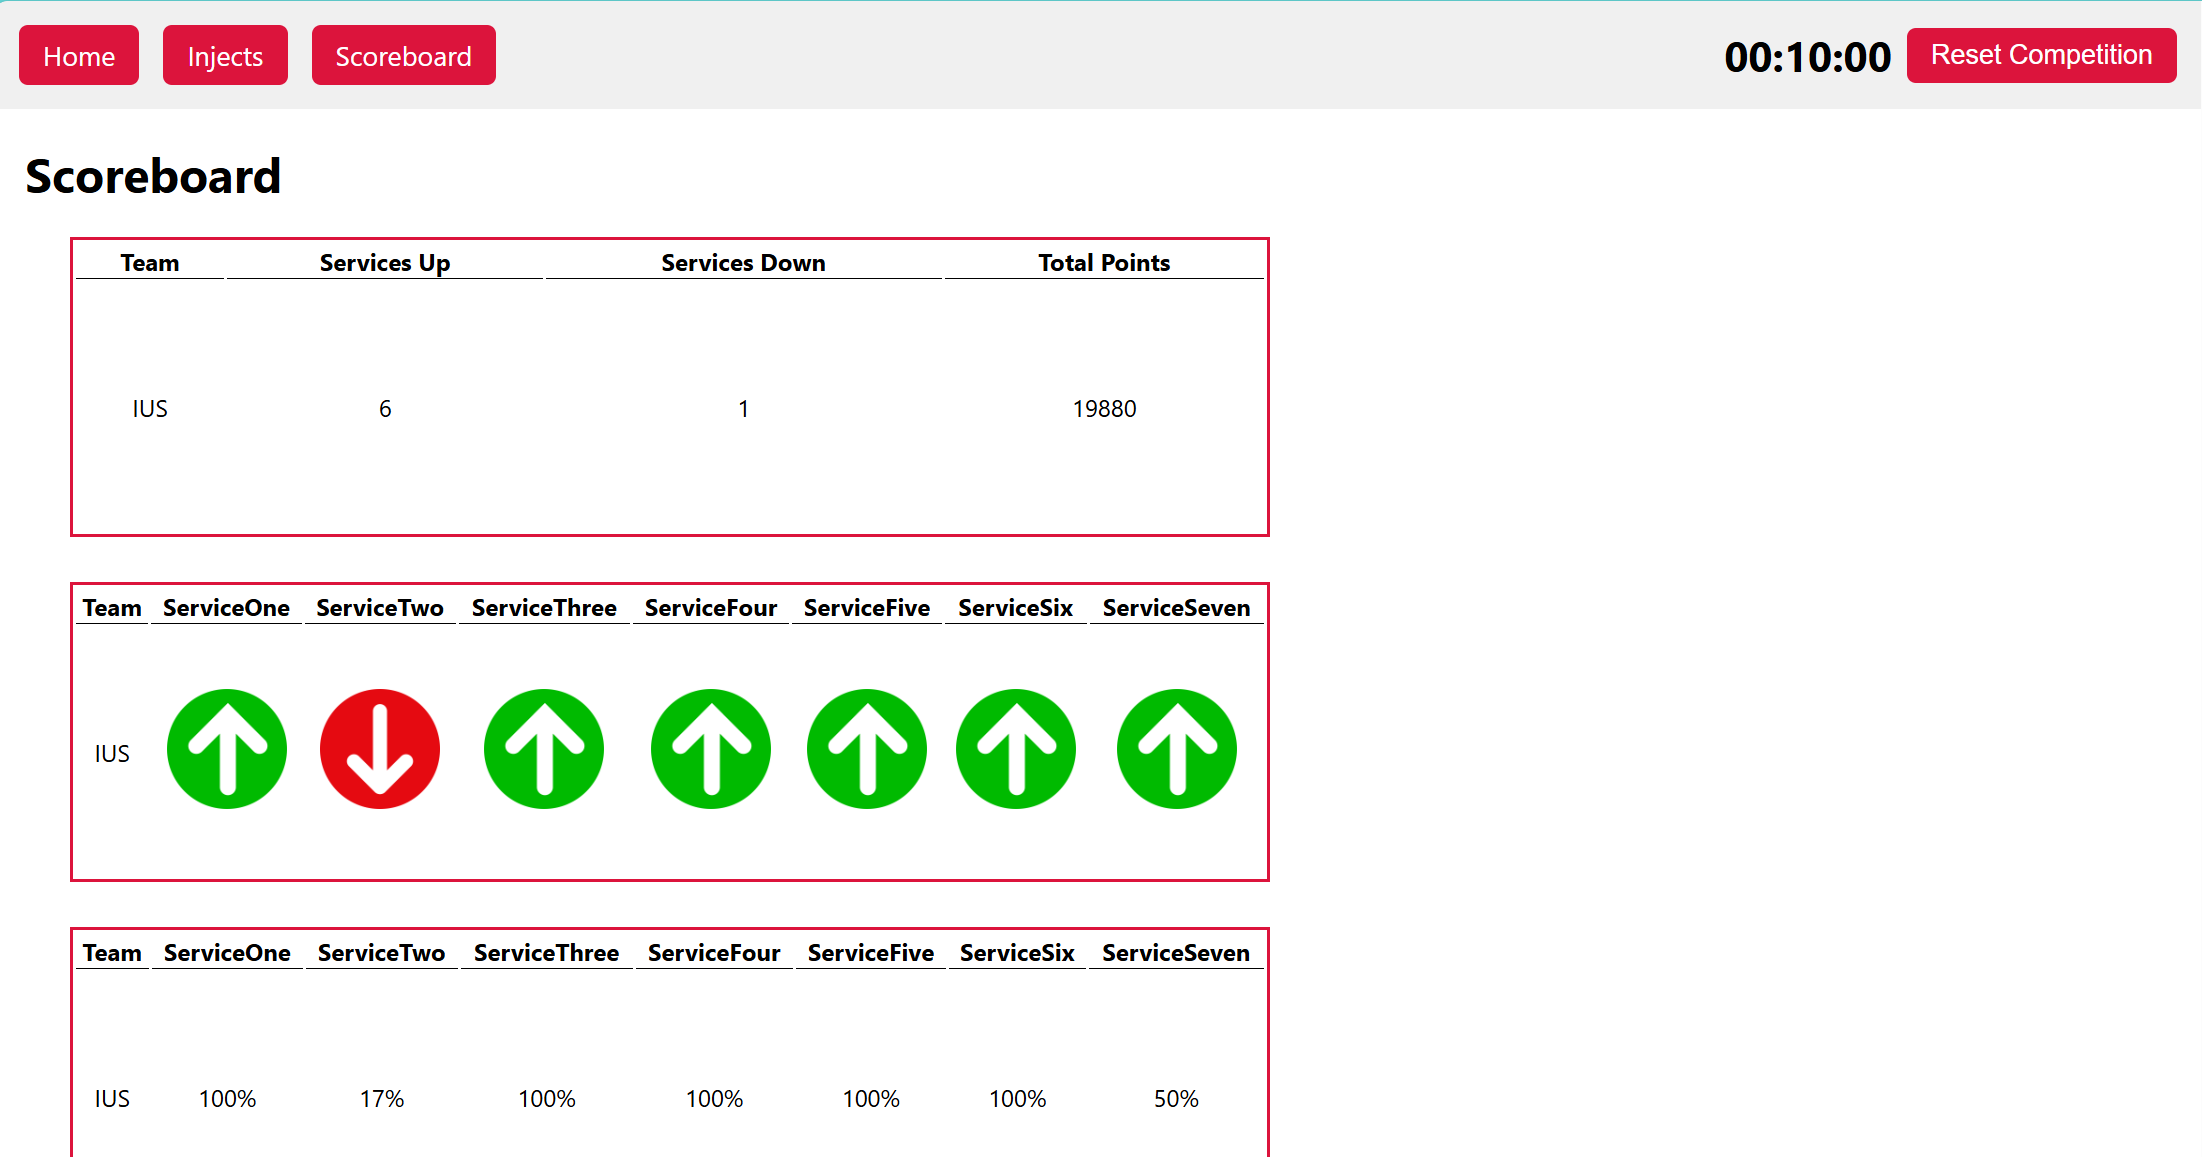
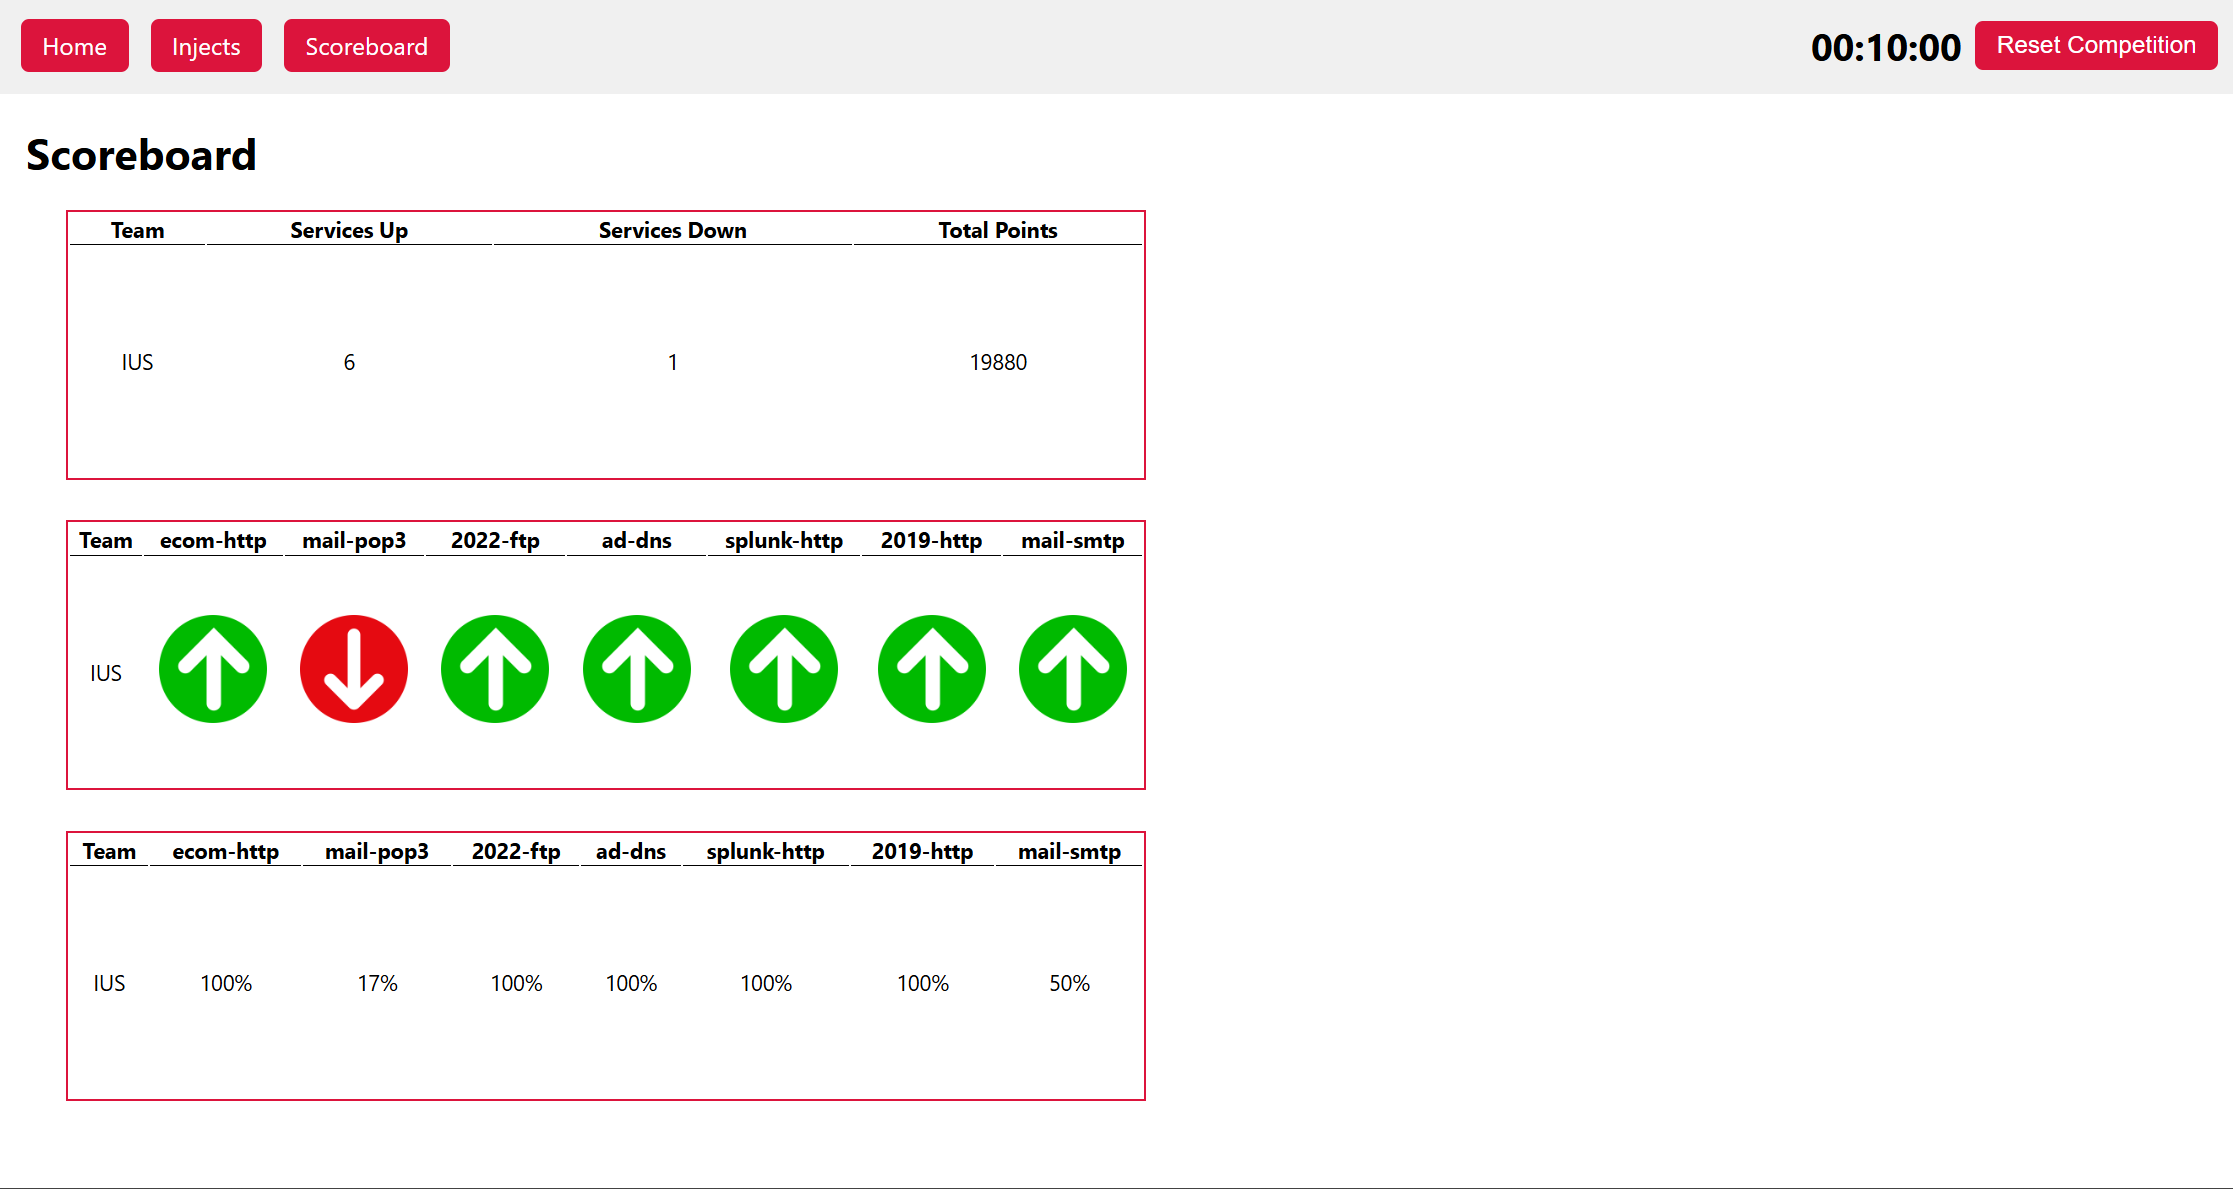
Added service names

diff --git a/src/Pages/ScoreBoard.js b/src/Pages/ScoreBoard.js
@@ -3,59 +3,74 @@ import "./Scoreboard.css";
 
 
 export default function Scoreboard() {
-  {/*All Hardcoded vars will need to be changed*/}
+  /*TODO All Hardcoded vars will need to be changed*/
   var Score = 0
-  var serviceOneUp = true;
-  var serviceTwoUp = false;
-  var serviceThreeUp = true;
-  var serviceFourUp = true;
-  var serviceFiveUp = true;
-  var serviceSixUp = true;
-  var serviceSevenUp = true;
-  var serviceOneTime = 120;
-  var serviceTwoTime = 20;
-  var serviceThreeTime = 120;
-  var serviceFourTime = 120;
-  var serviceFiveTime = 120;
-  var serviceSixTime = 120;
-  var serviceSevenTime = 60;
+  var service_ecomhttp_Up = true;
+  var service_mailpop3_Up = false;
+  var service_2022ftp_Up = true;
+  var service_addns_Up = true;
+  var service_splunkhttp_Up = true;
+  var service_2019http_Up = true;
+  var service_mailsmtp_Up = true;
+  var service_ecomhttp_Time = 120;
+  var service_mailpop3_Time = 20;
+  var service_2022ftp_Time = 120;
+  var service_addns_Time = 120;
+  var service_splunkhttp_Time = 120;
+  var service_2019http_Time = 120;
+  var service_mailsmtp_Time = 60;
   var upServices = 0;
-  var services = [serviceOneUp, serviceTwoUp,serviceThreeUp, serviceFourUp,serviceFiveUp, serviceSixUp, serviceSevenUp];
-  var servicesTimes = [serviceOneTime, serviceTwoTime,serviceThreeTime, serviceFourTime,serviceFiveTime, serviceSixTime, serviceSevenTime];
+  var services = [service_ecomhttp_Up, service_mailpop3_Up,service_2022ftp_Up, service_addns_Up,service_splunkhttp_Up, service_2019http_Up, service_mailsmtp_Up];
+  var servicesTimes = [service_ecomhttp_Time, service_mailpop3_Time,service_2022ftp_Time, service_addns_Time,service_splunkhttp_Time, service_2019http_Time, service_mailsmtp_Time];
+  
+  /*TODO update to actually cal. total time running*/
   var totalTime = 120;
 
 
   function getScore() {
-    //placeholder until we add the actual scoreboard
+    /*TODO update to actually cal. score*/
     var x = 19880;
     return x;
   }
+
+  /*Expects the serviceUp to be set t true or false to see if service is currently up
+    Returns the image for if service is up or down.
+  */
   function getScoreImage(serviceUp) {
-    //placeholder for getting up services
-    if (serviceUp == true){
+    if (serviceUp === true){
       return "./GreenArrow.png"
     }else{
       return "./RedArrow.png"
     }
   }
+
+  /*Expects the serviceUp to be set to true or false to see if service is currently up
+    Returns the image alt for if service is up or down.
+  */
   function getScoreImageAlt(serviceUp) {
-    //placeholder for getting up services
-    if (serviceUp == true){
+    if (serviceUp === true){
       return "Green Arrow"
     }else{
       return "Red Arrow"
     }
   }
+
+  /*Expects the services to have all services listed and upServices to be 0
+    Returns the number of services that are currently up.
+  */
   function getUpServices(services, upServices) {
-    //placeholder for getting up services
     for(var i = 0; i < services.length; i++){
       var service = services[i];
-      if (service == true){
+      if (service === true){
         upServices++;
       }
     }
     return upServices
   }
+
+  /*Expects the services times amd totalTime to be set 
+    Returns the percent of time the service has been up.
+  */
   function getUpTimes(service, totalTime) {
     return Math.round((service / totalTime)* 100);
   }
@@ -71,7 +86,6 @@ export default function Scoreboard() {
         <thead>
           <tr>
             <th>Team</th>
-            {/*ToDo find out all service display names*/}
             <th>Services Up</th>
             <th>Services Down</th>
             <th>Total Points</th>
@@ -94,14 +108,13 @@ export default function Scoreboard() {
         <thead>
           <tr>
             <th>Team</th>
-            {/*ToDo find out all service display names*/}
-            <th>ServiceOne</th>
-            <th>ServiceTwo</th>
-            <th>ServiceThree</th>
-            <th>ServiceFour</th>
-            <th>ServiceFive</th>
-            <th>ServiceSix</th>
-            <th>ServiceSeven</th>
+            <th>ecom-http</th>
+            <th>mail-pop3</th>
+            <th>2022-ftp</th>
+            <th>ad-dns</th>
+            <th>splunk-http</th>
+            <th>2019-http</th>
+            <th>mail-smtp</th>
           </tr>
         </thead>
 
@@ -109,25 +122,25 @@ export default function Scoreboard() {
           <tr>
             <td>IUS</td>
             <td>
-              <img src={getScoreImage(serviceOneUp)} alt={getScoreImageAlt(serviceOneUp)} width="80"/>
+              <img src={getScoreImage(service_ecomhttp_Up)} alt={getScoreImageAlt(service_ecomhttp_Up)} width="80"/>
             </td>
             <td>
-              <img src={getScoreImage(serviceTwoUp)} alt={getScoreImageAlt(serviceTwoUp)} width="80"/>
+              <img src={getScoreImage(service_mailpop3_Up)} alt={getScoreImageAlt(service_mailpop3_Up)} width="80"/>
             </td>
             <td>
-              <img src={getScoreImage(serviceThreeUp)} alt={getScoreImageAlt(serviceThreeUp)} width="80"/>
+              <img src={getScoreImage(service_2022ftp_Up)} alt={getScoreImageAlt(service_2022ftp_Up)} width="80"/>
             </td>
             <td>
-              <img src={getScoreImage(serviceFourUp)} alt={getScoreImageAlt(serviceFourUp)} width="80"/>
+              <img src={getScoreImage(service_addns_Up)} alt={getScoreImageAlt(service_addns_Up)} width="80"/>
             </td>
             <td>
-              <img src={getScoreImage(serviceFiveUp)} alt={getScoreImageAlt(serviceFiveUp)} width="80"/>
+              <img src={getScoreImage(service_splunkhttp_Up)} alt={getScoreImageAlt(service_splunkhttp_Up)} width="80"/>
             </td>
             <td>
-              <img src={getScoreImage(serviceSixUp)} alt={getScoreImageAlt(serviceSixUp)} width="80"/>
+              <img src={getScoreImage(service_2019http_Up)} alt={getScoreImageAlt(service_2019http_Up)} width="80"/>
             </td>
             <td>
-              <img src={getScoreImage(serviceSevenUp)} alt={getScoreImageAlt(serviceSevenUp)} width="80"/>
+              <img src={getScoreImage(service_mailsmtp_Up)} alt={getScoreImageAlt(service_mailsmtp_Up)} width="80"/>
             </td>
           </tr>
         </tbody>
@@ -139,14 +152,13 @@ export default function Scoreboard() {
         <thead>
           <tr>
             <th>Team</th>
-            {/*ToDo find out all service display names*/}
-            <th>ServiceOne</th>
-            <th>ServiceTwo</th>
-            <th>ServiceThree</th>
-            <th>ServiceFour</th>
-            <th>ServiceFive</th>
-            <th>ServiceSix</th>
-            <th>ServiceSeven</th>
+            <th>ecom-http</th>
+            <th>mail-pop3</th>
+            <th>2022-ftp</th>
+            <th>ad-dns</th>
+            <th>splunk-http</th>
+            <th>2019-http</th>
+            <th>mail-smtp</th>
           </tr>
         </thead>
 

diff --git a/README.md b/README.md
@@ -5,8 +5,9 @@ TODO write this :) but
 for now here are what pages currently look like
 
 
-Newest added as of 11/30/2025 (with the latest updates listed first)
+Newest added as of 12/1/2025 (with the latest updates listed first)
 
+ - Service names added to scoreboard
  - A working timer and start buttons
  - Scoreboard mockup
  - Home page
